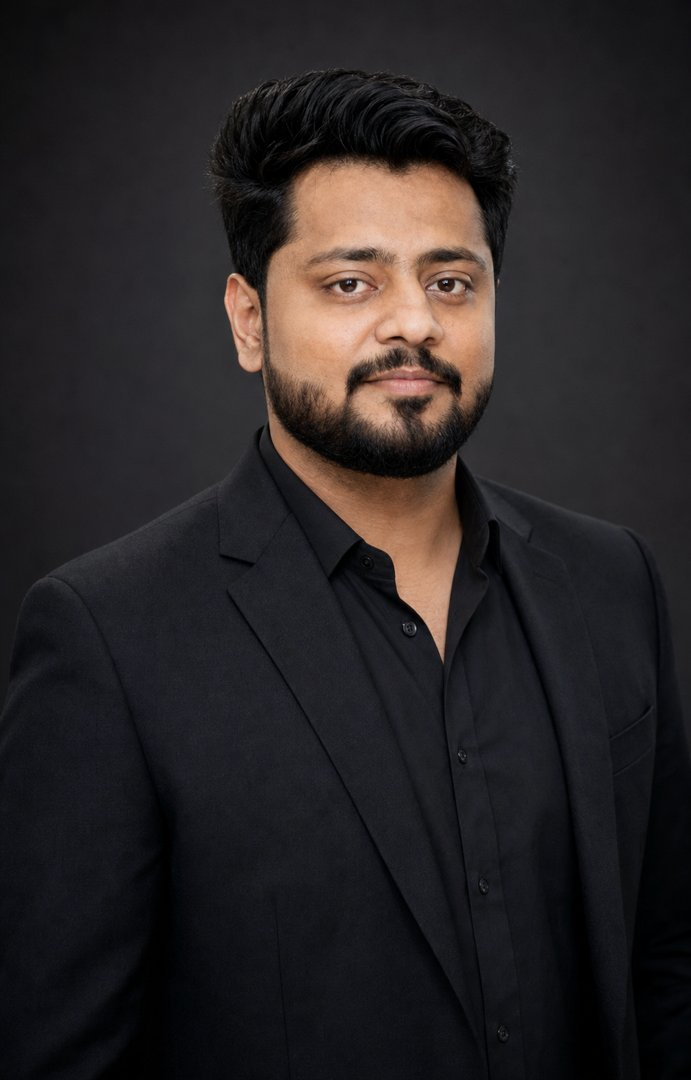
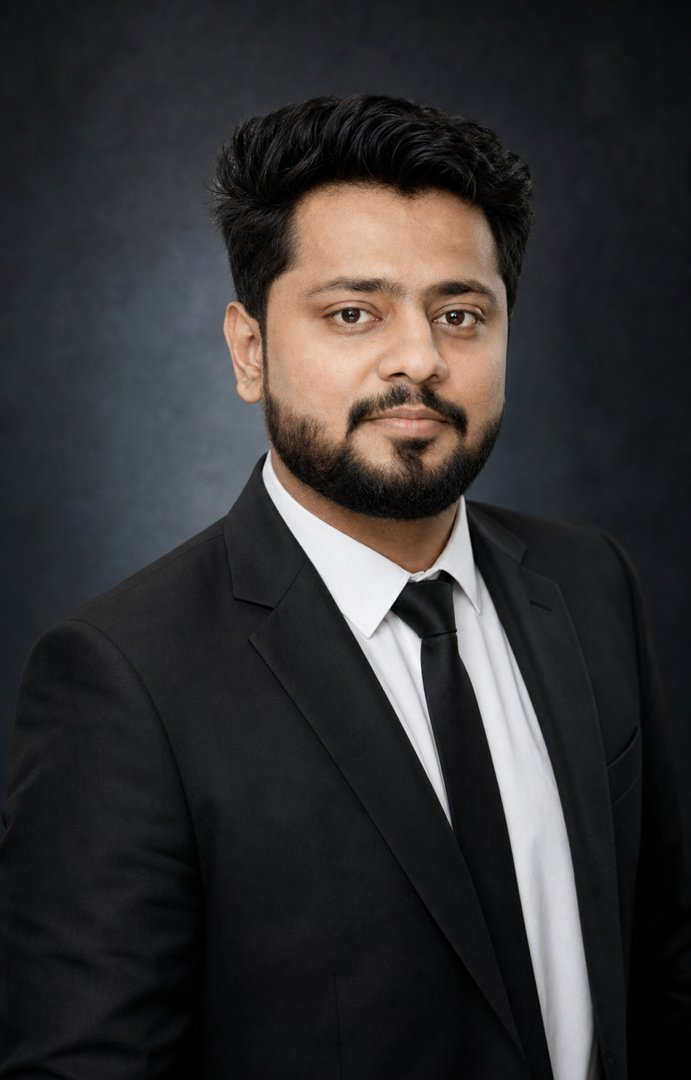
photos: pos2 <- black-on-black; pos6 <- sheet#4 (same portrait size); metadata+dims+sitemap synced

diff --git a/photos/index.html b/photos/index.html
@@ -185,9 +185,9 @@ a{color:inherit;text-decoration:none;}
   "@type": "ImageObject",
   "contentUrl": "https://harshaldasani.pages.dev/photos/harshal-dasani-03.jpg",
   "url": "https://harshaldasani.pages.dev/photos/harshal-dasani-03.jpg",
-  "name": "Harshal Dasani — portrait",
+  "name": "Harshal Dasani — markets professional",
   "caption": "Portrait — INVasset PMS",
-  "description": "Portrait of Harshal Dasani, Business Head at INVasset PMS & AIF, Mumbai.",
+  "description": "Harshal Dasani, markets professional and financial writer, Mumbai.",
   "width": 691,
   "height": 1080,
   "creator": {
@@ -585,9 +585,9 @@ a{color:inherit;text-decoration:none;}
   "@type": "ImageObject",
   "contentUrl": "https://harshaldasani.pages.dev/photos/harshal-dasani-19.jpg",
   "url": "https://harshaldasani.pages.dev/photos/harshal-dasani-19.jpg",
-  "name": "Harshal Dasani — markets professional",
+  "name": "Harshal Dasani — Business Head, INVasset PMS",
   "caption": "Harshal Dasani",
-  "description": "Harshal Dasani, markets professional and financial writer, Mumbai.",
+  "description": "Harshal Dasani, Business Head at INVasset PMS & AIF — markets professional, Mumbai.",
   "width": 691,
   "height": 1080,
   "creator": {
@@ -632,7 +632,7 @@ a{color:inherit;text-decoration:none;}
         <figcaption>Harshal Dasani</figcaption>
       </figure>
       <figure class="photo">
-        <img src="harshal-dasani-03.jpg" width="691" height="1080" alt="Portrait of Harshal Dasani, INVasset PMS, Mumbai" title="Portrait — INVasset PMS" loading="lazy" decoding="async">
+        <img src="harshal-dasani-03.jpg" width="691" height="1080" alt="Harshal Dasani, markets professional and writer, Mumbai" title="Markets professional, Mumbai" loading="lazy" decoding="async">
         <figcaption>Harshal Dasani</figcaption>
       </figure>
       <figure class="photo">
@@ -648,7 +648,7 @@ a{color:inherit;text-decoration:none;}
         <figcaption>Harshal Dasani</figcaption>
       </figure>
       <figure class="photo">
-        <img src="harshal-dasani-19.jpg" width="691" height="1080" alt="Harshal Dasani, markets professional and writer, Mumbai" title="Markets professional, Mumbai" loading="lazy" decoding="async">
+        <img src="harshal-dasani-19.jpg" width="691" height="1080" alt="Harshal Dasani, Business Head at INVasset PMS &amp; AIF, Mumbai" title="Business Head, INVasset PMS &amp; AIF" loading="lazy" decoding="async">
         <figcaption>Harshal Dasani</figcaption>
       </figure>
       <figure class="photo">